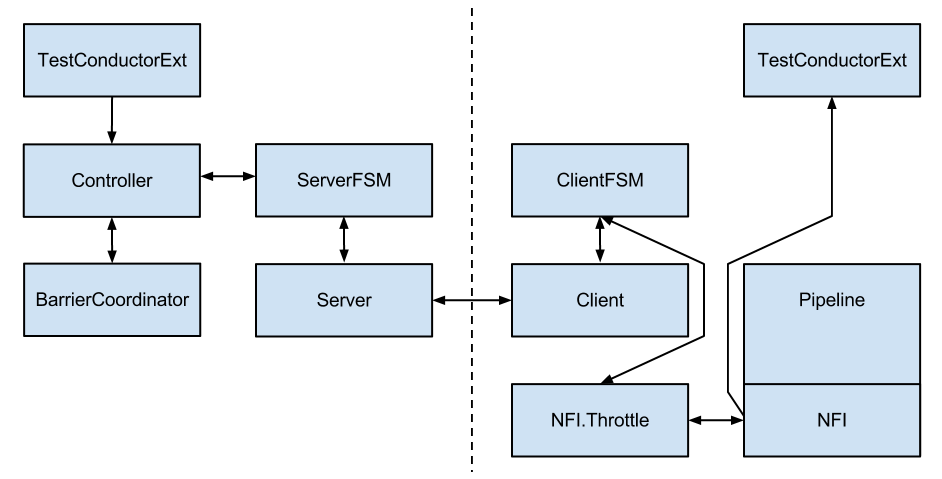
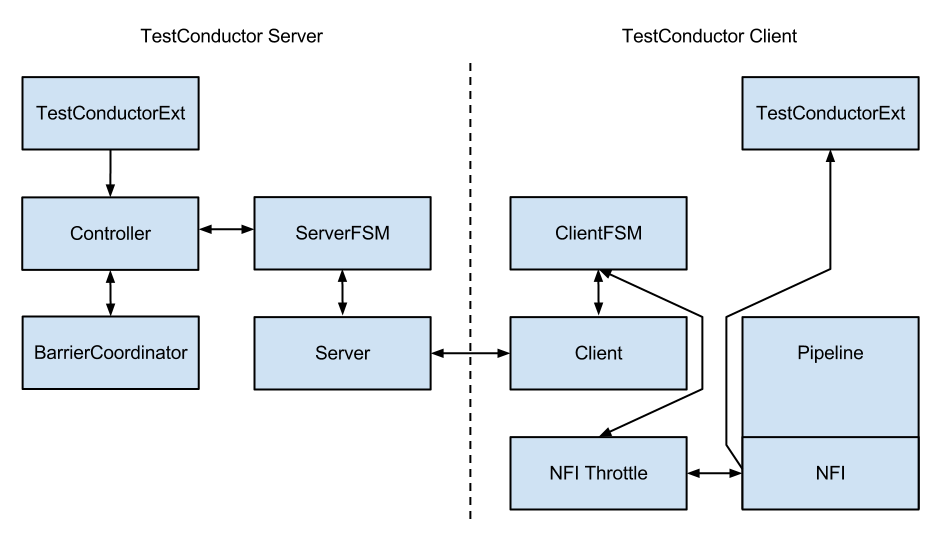
Multi Node Testing Docs and Sample. See #2349

Changed region(s): [[0.0, 0.0292, 0.9851, 0.9645], [0.862, 0.8476, 0.8928, 0.9061]]

diff --git a/dev/multi-node-testing.rst b/dev/multi-node-testing.rst
@@ -1,0 +1,183 @@
+.. _multi_node_testing:
+
+###################
+ Multi Node Testing
+###################
+
+.. note:: This module is :ref:`experimental <experimental>`. This document describes how to use the features
+ implemented so far. More features are coming in Akka Coltrane. Track progress of the Coltrane milestone in
+ `Assembla <http://www.assembla.com/spaces/akka/tickets>`_.
+
+Preparing Your Project for Multi Node Testing
+=============================================
+
+The multi node testing is a separate jar file. Make sure that you have the following dependency in your project:
+
+.. parsed-literal::
+
+  "com.typesafe.akka" %% "akka-remote-tests-experimental" % "2.1-SNAPSHOT"
+
+If you are using the latest nightly build you should pick a timestamped Akka version from
+`<http://repo.typesafe.com/typesafe/snapshots/com/typesafe/akka/>`_. Don't use ``SNAPSHOT``. Note that the
+Scala version |scalaVersion| is part of the artifactId.
+
+Multi Node Testing Concepts
+===========================
+
+Multi node testing in Akka consist of three main parts.
+
+* `The Test Conductor`_. that coordinates and controls the nodes under test.
+* `The Multi Node Spec`_. that is a convenience wrapper for starting the ``TestConductor`` and letting all
+  nodes connect to it.
+* `The SbtMultiJvm Plugin`_. that starts tests in multiple JVMs possibly on multiple machines.
+
+The Test Conductor
+==================
+
+The basis for the multi node testing is the ``TestConductor``. It is an Akka Extension that plugs in to the
+network stack and it is used to coordinate the nodes participating in the test and provides several features
+including:
+
+* Node Address Lookup: Finding out the full path to another test node (No need to share configuration between
+  test nodes)
+* Node Barrier Coordination: Waiting for other nodes at named barriers.
+* Network Failure Injection: Throttling traffic, dropping packets, unplugging and plugging nodes back in.
+
+This is a schematic overview of the test conductor.
+
+.. image:: ../images/akka-remote-testconductor.png
+
+The test conductor server is responsible for coordinating barriers and sending commands to the test conductor
+clients that act upon them, e.g. throttling network traffic to/from another client.
+
+The Multi Node Spec
+===================
+
+The Multi Node Spec consists of two parts. The ``MultiNodeConfig`` that is responsible for common
+configuration and enumerating and naming the nodes under test. The ``MultiNodeSpec`` that contains all the
+convenience functions for making the test nodes interact with each other.
+
+The setup of the ``MultiNodeSpec`` is configured through properties that you set on all JVMs that's going to run a
+node under test.
+
+These are the available properties:
+  * ``multinode.max-nodes``
+
+    The maximum number of nodes that a test can have.
+
+  * ``multinode.host``
+
+    The host name or IP for this node. Must be resolvable using InetAddress.getByName.
+
+  * ``multinode.port``
+
+    The port number for this node. Defaults to 0 which will use a random port.
+
+  * ``multinode.server-host``
+
+    The host name or IP for the server node. Must be resolvable using InetAddress.getByName.
+
+  * ``multinode.server-port``
+
+    The port number for the server node. Defaults to 4711.
+
+  * ``multinode.index``
+
+    The index of this node in the sequence of roles defined for the test. The index 0 is special and that machine
+    will be the server. All failure injection and throttling must be done from this node.
+
+The SbtMultiJvm Plugin
+======================
+
+The :ref:`SbtMultiJvm Plugin <multi_jvm_testing>` has been updated to be able to run multi node tests, by
+automatically generating the relevant ``multinode.*`` properties. This means that you can easily run multinode tests
+on a single machine by just running them as normal multi jvm tests.
+
+Multi Node Specific Additions
++++++++++++++++++++++++++++++
+
+The plugin also has a number of new ``multi-node-*`` sbt tasks and settings to support running tests on multiple
+machines. The necessary test classes and dependencies are packaged for distribution to other machines with
+`SbtAssembly <https://github.com/sbt/sbt-assembly>`_ into a jar file with a name on the format
+``<projectName>_<scalaVersion>-<projectVersion>-multi-jvm-assembly.jar``
+
+.. note::
+
+   To be able to distribute and kick off the tests on multiple machines, it is assumed that both host and target
+   systems are POSIX like systems with `ssh` and `rsync` available.
+
+These are the available sbt multi-node settings:
+  * ``multiNodeHosts``
+
+    A sequence of hosts to use for running the test, on the form ``user@host:java`` where host is the only required
+    part. Will override settings from file.
+
+  * ``multiNodeHostsFileName``
+
+    A file to use for reading in the hosts to use for running the test. One per line on the same format as above.
+    Defaults to ``multi-node-test.hosts`` in the base project directory.
+
+  * ``multiNodeTargetDirName``
+
+    A name for the directory on the target machine, where to copy the jar file. Defaults to ``multi-node-test`` in
+    the base directory of the ssh user used to rsync the jar file.
+
+  * ``multiNodeJavaName``
+
+    The name of the default Java executable on the target machines. Defaults to ``java``.
+
+Here are some examples of how you define hosts:
+  * ``localhost``
+
+    The current user on localhost using the default java.
+
+  * ``user1@host1``
+
+    User ``user1`` on host ``host1`` with the default java.
+
+  * ``user2@host2:/usr/lib/jvm/java-7-openjdk-amd64/bin/java``
+
+    User ``user2`` on host ``host2`` using java 7.
+
+  * ``host3:/usr/lib/jvm/java-6-openjdk-amd64/bin/java``
+
+    The current user on host ``host3`` using java 6.
+
+Running the Test in Multi Node Mode
++++++++++++++++++++++++++++++++++++
+
+To run all the multi node test in multi-node mode (i.e. distributing the jar files and rkicking off the tests
+remotely) from inside sbt, use the ``multi-node-test`` task:
+
+.. code-block:: none
+
+  multi-node-test
+
+To run individual tests use the ``multi-node-test-only`` task:
+
+.. code-block:: none
+
+  multi-node-test-only akka.remote.RandomRoutedRemoteActor
+
+More than one test name can be listed to run multiple specific tests. Tab completion in sbt makes it easy to
+complete the test names.
+
+A Multi Node Testing Example
+============================
+
+First we need some scaffolding to hook up the `MultiNodeSpec` with your favorite test framework. Lets define a trait
+``STMultiNodeSpec`` that uses ScalaTest to start and stop ``MultiNodeSpec``.
+
+.. includecode:: ../../akka-samples/akka-sample-multi-node/src/test/scala/sample/multinode/STMultiNodeSpec.scala#example
+
+Then we need to define a configuration. Lets use two nodes ``"node1`` and ``"node2"`` and call it
+``MultiNodeSampleConfig``.
+
+.. includecode:: ../../akka-samples/akka-sample-multi-node/src/multi-jvm/scala/sample/multinode/MultiNodeSample.scala
+  :include: package,config
+
+And then finally to the node test code. That starts the two nodes, and demostrates a barrier, and a remote actor
+message send/receive.
+
+.. includecode:: ../../akka-samples/akka-sample-multi-node/src/multi-jvm/scala/sample/multinode/MultiNodeSample.scala
+  :include: package,spec

diff --git a/dev/multi-jvm-testing.rst b/dev/multi-jvm-testing.rst
@@ -2,7 +2,7 @@
 .. _multi-jvm-testing:
 
 ###################
- Multi-JVM Testing
+ Multi JVM Testing
 ###################
 
 Support for running applications (objects with main methods) and
@@ -12,13 +12,13 @@ ScalaTest tests in multiple JVMs.
 Setup
 =====
 
-The multi-JVM testing is an sbt plugin that you can find here:
+The multi JVM testing is an sbt plugin that you can find here:
 
 http://github.com/typesafehub/sbt-multi-jvm
 
-You can add it as a plugin by adding the following to your project/plugins.sbt::
+You can add it as a plugin by adding the following to your project/plugins.sbt:
 
-   addSbtPlugin("com.typesafe.sbt" % "sbt-multi-jvm" % "0.3.0")
+.. includecode:: ../../project/plugins.sbt#sbt-multi-jvm
 
 You can then add multi-JVM testing to ``project/Build.scala`` by including the ``MultiJvm``
 settings and config. For example, here is an example of how the akka-remote-tests project adds
@@ -223,3 +223,10 @@ classpath. Here is a similar example to the one above but using ScalaTest::
 
 To run just these tests you would call ``multi-jvm:test-only sample.Spec`` at
 the sbt prompt.
+
+Multi Node Additions
+====================
+
+There has also been some additions made to the ``SbtMultiJvm`` plugin to accomodate the
+:ref:`experimental <experimental>` module :ref:`multi node testing <multi_node_testing>`,
+described in that section.

diff --git a/experimental/index.rst b/experimental/index.rst
@@ -24,4 +24,4 @@ of the module over time.
    :maxdepth: 2
 
    ../cluster/index
-
+   ../dev/multi-node-testing
